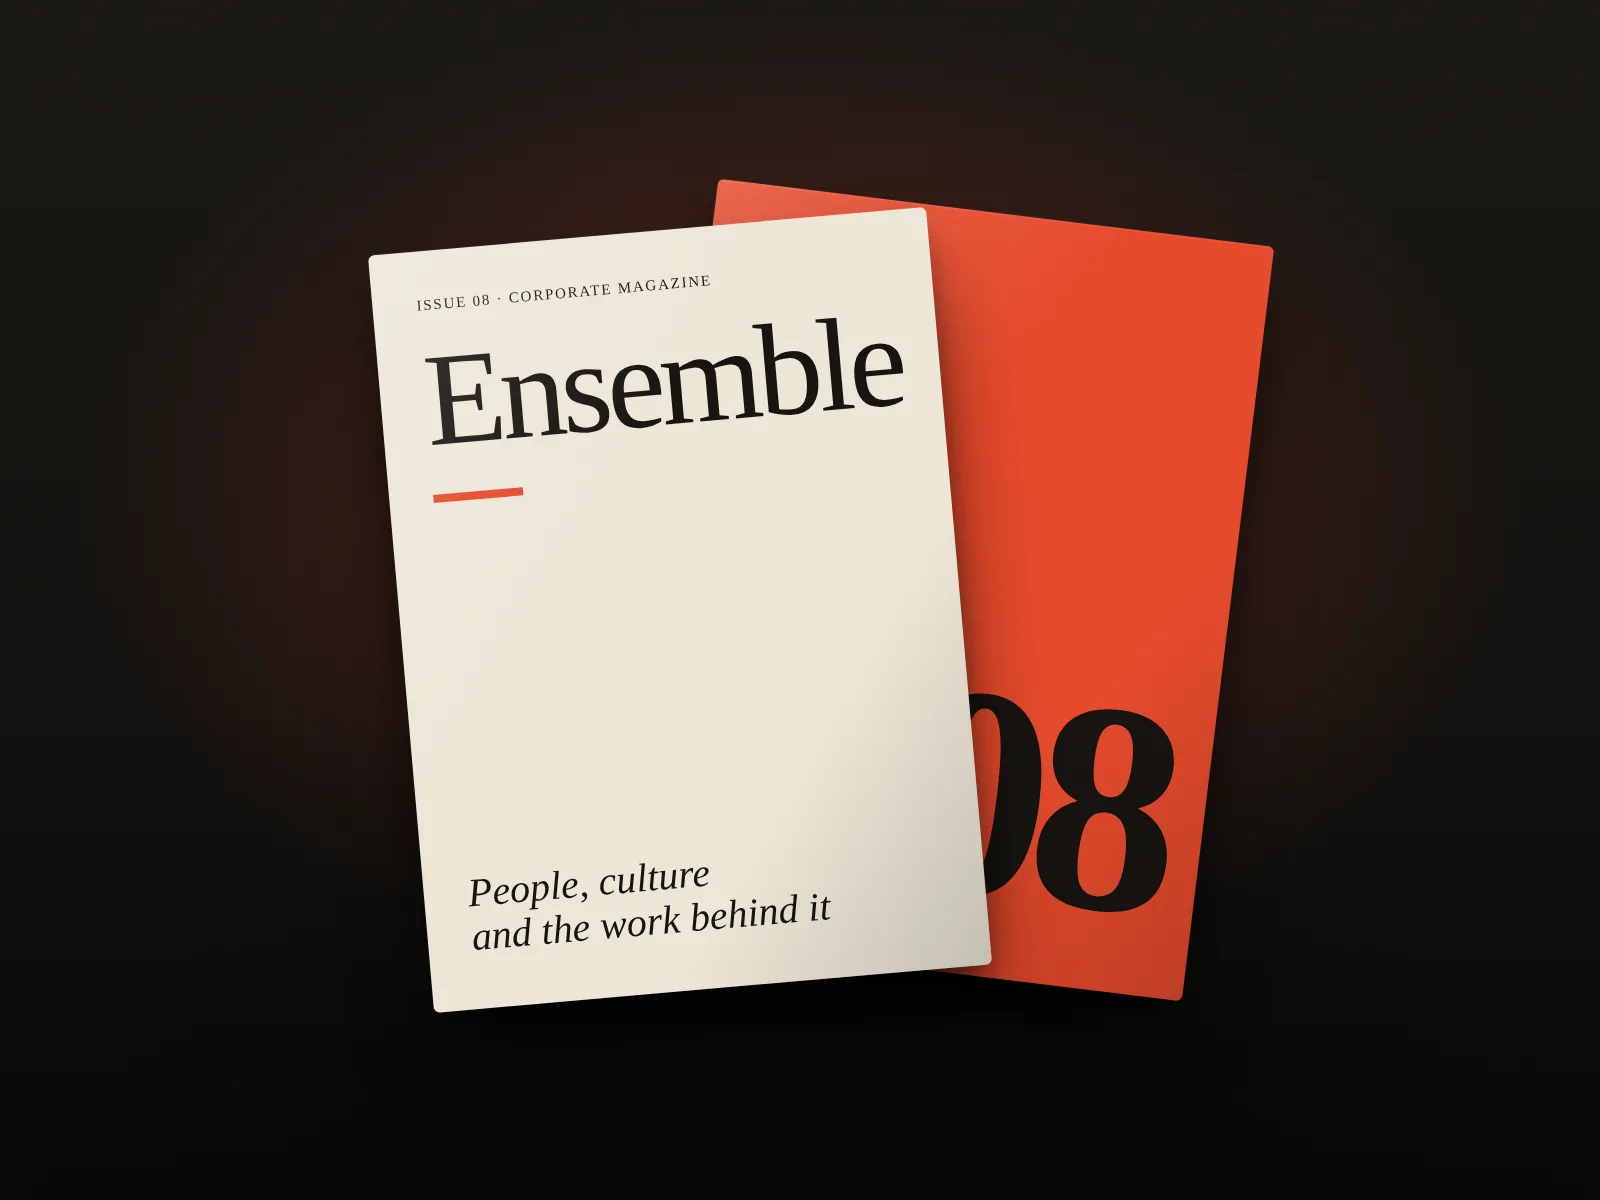
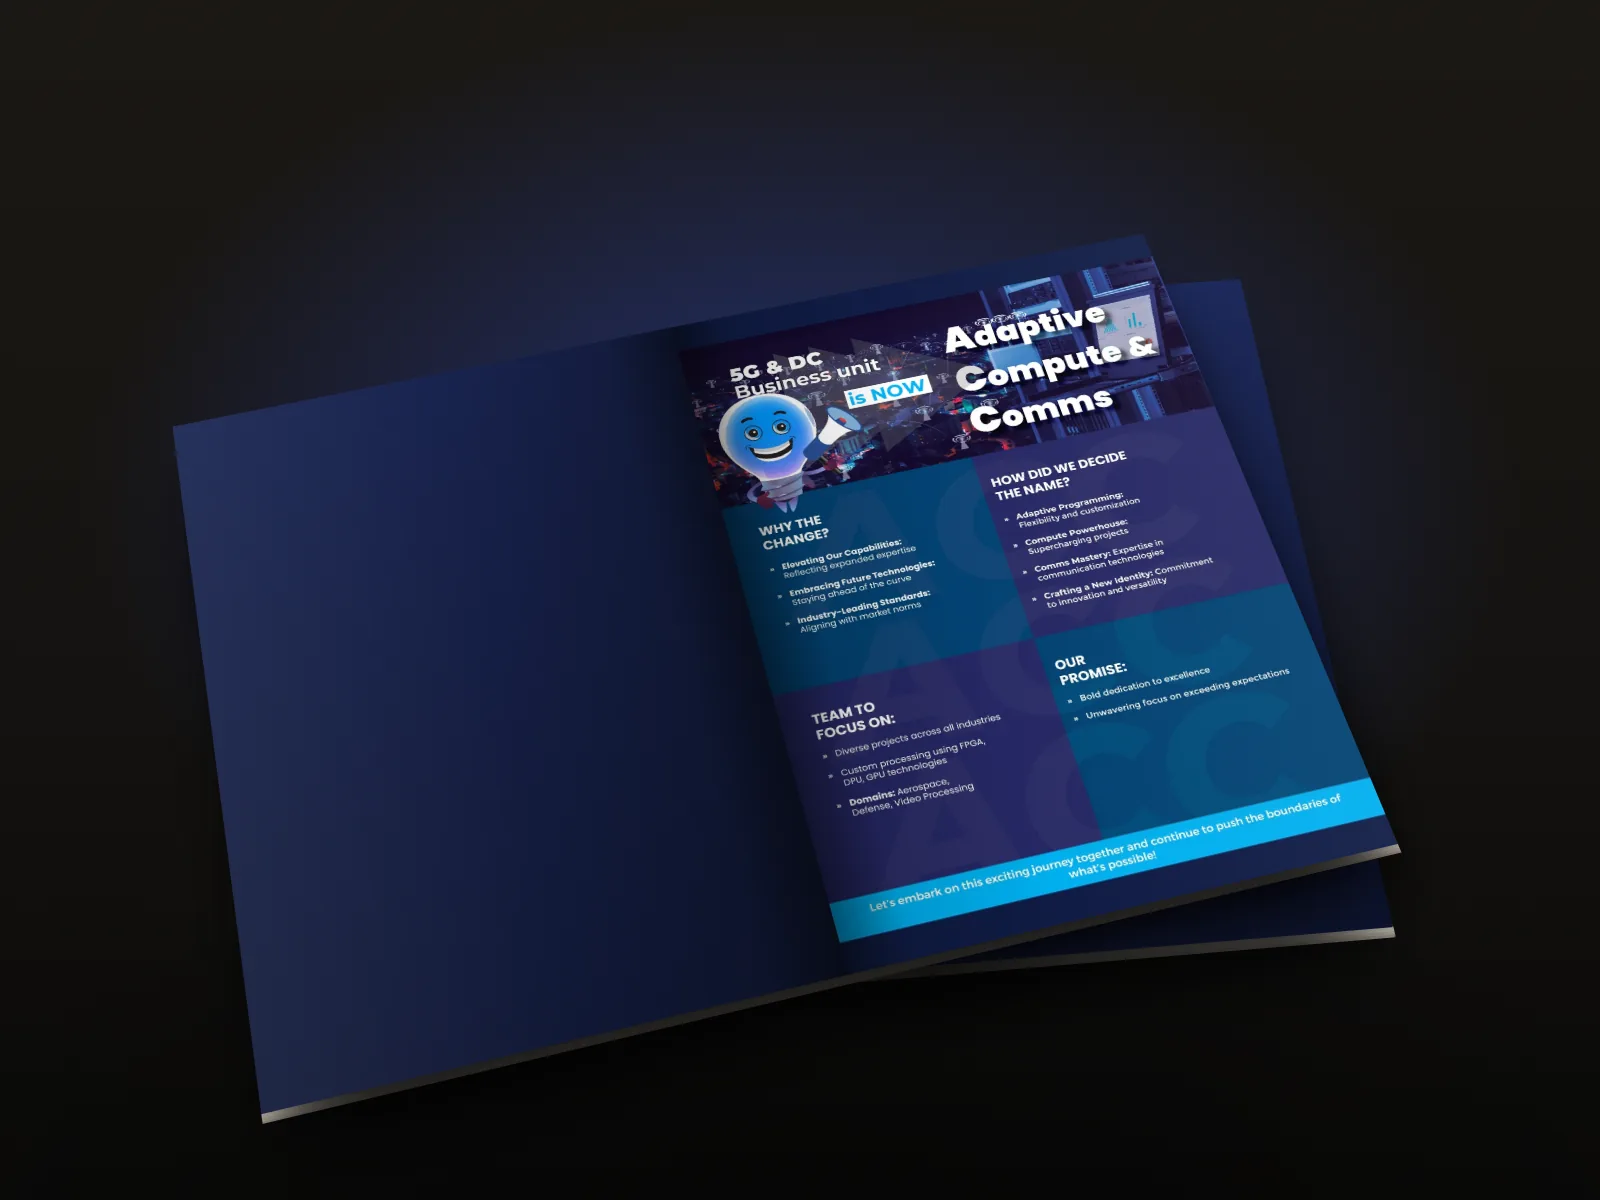
Split Drive projects into their own case studies, add book and brochure mockups
- 8 new projects: Hannover Messe signage, corporate brochure, 5G Lab Kit,
  Low Power Radio Unit, Wi-Fi 7 datasheet, engineering services,
  festive and culture posts, standees
- Gallery pages rendered locally from the source PDFs (no Drive wait)
- Open-magazine mockup for Ensemble, spread and two-pager mockups for brochures
- Featured strip: six picks with a large magazine hero card
- Product brochures renamed to Product Flyers & Sell Sheets; pitch deck
  slides now served locally

Claude-Session: https://claude.ai/code/session_014aAmsUZAXLCP4DRo1Xt3up

diff --git a/js/data.js b/js/data.js
@@ -265,25 +265,23 @@ window.PROJECTS = [
       'Managed press-ready files and colour across vendors in different countries.'
     ],
     outcome: 'Every new show became a configuration rather than a redesign, keeping the brand consistent across 100+ exhibitions.',
-    pdf: '1Z5aSkvRMjSGA0jIeFHua726WbyR0oH8e',
-    pdfLabel: 'Hannover Messe product signage',
     images: ['1IIj9wvWmJliE1QHh5fDCYw833K8XS2MK', '1HDHVDjGsJWhoZt_VHHssbomklXn1cp7s', '1HFIb04e02njFJjXGaN74U3694fSrhIEO', '1HXGqKa9lszg-lv9snxRE9bt03oRi4fHw',
       '1TaphvB0kALbIiTU0_FZhw8UPkN0tUJkH', '185UCdiq264fO6hqPjwQOdQqwl5O-SDlj', '1C305TmPrZMAAAK7m7a-MKKRqJ4Yp7YgV', '1YGL8D2jGySRFbb83AJ02GbVpnn84m_9E',
       '1DyctFCqkiEx4BHuJOziJxyeLByNRuJdD', '1aq2oxGtCBNQjIm36HN_aLstq5xYVYbHz', '18DpgtKuL73PQpwbRh20G9n6KYWtCgGfr', '13fHQ3Rzybj3XnZVPk7g-QY-23Mn0U2XL',
-      '1U4eJvnnVfnWRVsPT93LxnVMJE0cV8kqM', '16OkYHOJQuDajMj_4_kpkTwmfOEniEaM3', '1R8ZdMVpZaeKEG0JukV80z8mmxtEcXEwZ', '1pzDxsQWRAFDnyYsYHeRZkDkDygZN7bVd']
+      '1U4eJvnnVfnWRVsPT93LxnVMJE0cV8kqM', '16OkYHOJQuDajMj_4_kpkTwmfOEniEaM3']
   },
   {
     slug: 'product-brochures',
     thumb: 'assets/work/thumbs/product-brochures.webp',
-    title: 'Product Brochures',
-    kicker: 'Making 5G, Wi-Fi 7 and FPGA readable for buyers',
+    title: 'Product Flyers & Sell Sheets',
+    kicker: 'One-page sell sheets for cloud, power and automotive',
     category: 'editorial',
     size: 'lg',
     year: '2023 – 2024',
     client: 'VVDN Technologies',
     role: 'Graphic Designer',
     tools: 'InDesign, Illustrator, Photoshop',
-    stat: { value: '7+', label: 'product & service brochures' },
+    stat: { value: '7+', label: 'flyers and sell sheets' },
     cover: { bg: '#E9E3D6', ink: '#141210', accent: '#2B4BD8', motif: 'grid' },
     brief: 'Deeply technical products (5G radio units, lab kits, Wi-Fi 7, FPGA, cloud platforms) needed sales collateral that a buyer at a trade show could understand in seconds.',
     approach: [
@@ -292,17 +290,10 @@ window.PROJECTS = [
       'Designed print-ready four-pagers and web versions with QR links back to product pages.'
     ],
     outcome: 'A family of brochures used across sales and 100+ exhibitions, recognisably one brand across every product line.',
-    pdf: '1vGku3dgiUB81HdYh6fVMrkwVp02vPTTD',
-    pdfLabel: 'Corporate brochure',
-    docs: [
-      { label: '5G Lab Kit', id: '1DUOtMYgWx83aEBy7ieX_0EDBdMDzjYuA' },
-      { label: '5G Low Power Radio Unit', id: '1ryYAUBTUfu8MPWXAVtzNOXe68Du-2i6S' },
-      { label: 'Wi-Fi 7', id: '17MMEBp7p2dwofTYo3XQELAT6WyvWOrLG' },
-      { label: 'SoC / FPGA / ASIC', id: '1-PVGJaYNk88FhP4Pr0cUiMwDSSbQJ-7K' },
-      { label: 'Engineering services', id: '1PJG9ZNo0mSzrW9ZbXZZM9-ZDwLq5uNVH' },
-      { label: 'Ambarella platforms', id: '1cSQV844QiC6883kChcjg_4flqknECuK4' }
-    ],
-    images: ['1FZqmjWL5uQWqwueJyOXilMGjlruzx4ng', '1tKFL7MQ44PaGzgdkjZTQIp-hDKrqWTwN', '1QxX6bzA5svDrQZcTrx8Z_7aWgvG8EwWz', '1tW3kJrM3FTSsRv8h11oKn00Wbeosh_Mc', '1M4t_LXTHMBZMrC2rkRLl9MAeiIrBVpY5', '1135WzylIpFkv3RRK0sDSZP8B2TkhvF4_', '1e_LJlFoR9Uc29DM27QbtEoeFvGF_bniq']
+    pdf: '1-PVGJaYNk88FhP4Pr0cUiMwDSSbQJ-7K',
+    pdfLabel: 'SoC / FPGA / ASIC brochure',
+    docs: [{ label: 'Ambarella platforms brochure', id: '1cSQV844QiC6883kChcjg_4flqknECuK4' }],
+    images: ['1FZqmjWL5uQWqwueJyOXilMGjlruzx4ng', '1tKFL7MQ44PaGzgdkjZTQIp-hDKrqWTwN', '1QxX6bzA5svDrQZcTrx8Z_7aWgvG8EwWz', '1tW3kJrM3FTSsRv8h11oKn00Wbeosh_Mc', '1135WzylIpFkv3RRK0sDSZP8B2TkhvF4_', '1e_LJlFoR9Uc29DM27QbtEoeFvGF_bniq']
   },
   {
     slug: 'corporate-magazine',
@@ -327,7 +318,7 @@ window.PROJECTS = [
     pdf: '1jLfSpgh4IetZi35g1-GWZKgghlRFS_30',
     pdfLabel: 'Ensemble 2024',
     docs: [{ label: 'Ensemble 2023', id: '1L7EYYJpi5nPelLRSSo4-EzgSIXCHMHR4' }, { label: 'Ensemble 2022', id: '1fKnxhKQ6IK1YTiVxoVm0543KHoRHpffT' }],
-    images: ['1EOpVJNgfmJa9e-fFML42YI_naqmXR45n']
+    images: ['assets/work/ensemble/01.webp']
   },
   {
     slug: 'sunkonnect',
@@ -361,7 +352,7 @@ window.PROJECTS = [
     client: 'VVDN Technologies · Freelance',
     role: 'Graphic Designer',
     tools: 'Illustrator, Photoshop',
-    stat: { value: '8', label: 'event creatives' },
+    stat: { value: '5', label: 'event creatives' },
     cover: { bg: '#2A2420', ink: '#F2E9DC', accent: '#C9A15A', motif: 'frame' },
     brief: 'Annual parties, festive celebrations and HR wellness drives each needed an invite or campaign that felt special, not templated.',
     approach: [
@@ -369,7 +360,191 @@ window.PROJECTS = [
       'Created festive greetings and backdrops in a consistent brand voice.'
     ],
     outcome: 'Used across email, print and social for each event.',
-    images: ['1HHzQ7KI7X7RkdUaNVEK78ygkr8B0cJOj', '1zoon9k5pg9VCznVdB9SfUGajOCbCXhPj', '1tJsB1ICWKCxCm_CX48SaB1zCpgBSKawM', '1HZlAYnrwixSNwZS428naKNm6nwVw2Cvh', '1HY9muyNHqTiSuYV9A1wwH0U4_mAhTYda', '1VnrV3nL3MjgwjlRF-xtCZhz9wjLEH0SI', '1xPVxfxptoL_PsjboSxsm7Yw_FShTK1Jl', '1yliEuOLemzs3GspMC2JcyBfGVMhJ0P8b']
+    images: ['1HHzQ7KI7X7RkdUaNVEK78ygkr8B0cJOj', '1zoon9k5pg9VCznVdB9SfUGajOCbCXhPj', '1tJsB1ICWKCxCm_CX48SaB1zCpgBSKawM', '1HZlAYnrwixSNwZS428naKNm6nwVw2Cvh', '1HY9muyNHqTiSuYV9A1wwH0U4_mAhTYda']
+  },
+  {
+    slug: 'hannover-signage',
+    thumb: 'assets/work/thumbs/hannover-signage.webp',
+    title: 'Hannover Messe Product Signage',
+    kicker: '19 product cards for one booth',
+    category: 'spatial',
+    size: 'lg',
+    year: '2024',
+    client: 'VVDN Technologies',
+    role: 'Graphic Designer',
+    tools: 'Illustrator, InDesign',
+    stat: { value: '19', label: 'product signage cards' },
+    cover: { bg: '#EEF3FA', ink: '#0E2A5C', accent: '#1F6FE5', motif: 'grid' },
+    brief: 'VVDN brought a wide product line to Hannover Messe, from thermal imaging cores and EV chargers to HPC servers and 5G radio units. Every product on the booth needed its own sign that a visitor could read from a step away.',
+    approach: [
+      'Built one card template: product name, partner logo, platform, highlights and use cases.',
+      'Kept the same reading order on every card so visitors could compare products quickly.',
+      'Added a QR code to each card that links to the product page.'
+    ],
+    outcome: 'Nineteen consistent cards for the booth, covering platforms from NVIDIA, Qualcomm, Intel, NXP, Ambarella and more.',
+    pdf: '1Z5aSkvRMjSGA0jIeFHua726WbyR0oH8e',
+    pdfLabel: 'All 19 signage cards',
+    images: ['assets/work/hannover/01.webp', 'assets/work/hannover/02.webp', 'assets/work/hannover/03.webp', 'assets/work/hannover/04.webp', 'assets/work/hannover/05.webp', 'assets/work/hannover/06.webp', 'assets/work/hannover/07.webp', 'assets/work/hannover/08.webp', 'assets/work/hannover/09.webp', 'assets/work/hannover/10.webp', 'assets/work/hannover/11.webp', 'assets/work/hannover/12.webp', 'assets/work/hannover/13.webp', 'assets/work/hannover/14.webp', 'assets/work/hannover/15.webp', 'assets/work/hannover/16.webp', 'assets/work/hannover/17.webp', 'assets/work/hannover/18.webp', 'assets/work/hannover/19.webp']
+  },
+  {
+    slug: 'corporate-brochure',
+    thumb: 'assets/work/thumbs/corporate-brochure.webp',
+    title: 'VVDN Corporate Brochure',
+    kicker: 'The company story in four pages',
+    category: 'editorial',
+    size: 'md',
+    year: '2023',
+    client: 'VVDN Technologies',
+    role: 'Graphic Designer',
+    tools: 'InDesign, Illustrator, Photoshop',
+    stat: { value: '4', label: 'pages · print and web' },
+    cover: { bg: '#0E2A5C', ink: '#EEF3FA', accent: '#2FA8E0', motif: 'masthead' },
+    brief: 'Prospects meeting VVDN for the first time needed one printed piece that explained the whole company, from concept-to-commission engineering to manufacturing.',
+    approach: [
+      'Opened with a full-bleed campus photo to establish scale.',
+      'Organised capabilities by business line: 5G, data centre, networking, IoT, vision, automotive and cloud.',
+      'Closed with manufacturing facilities and a world map of the global footprint.'
+    ],
+    outcome: 'A four-page introduction used in sales meetings and at trade shows.',
+    pdf: '1vGku3dgiUB81HdYh6fVMrkwVp02vPTTD',
+    pdfLabel: 'Corporate brochure',
+    images: ['assets/work/corporate-brochure/01.webp', 'assets/work/corporate-brochure/02.webp', 'assets/work/corporate-brochure/03.webp', 'assets/work/corporate-brochure/04.webp']
+  },
+  {
+    slug: 'lab-kit-brochure',
+    thumb: 'assets/work/thumbs/lab-kit-brochure.webp',
+    title: '5G Lab Kit Brochure',
+    kicker: 'Selling a 5G lab to universities',
+    category: 'editorial',
+    size: 'sm',
+    year: '2023',
+    client: 'VVDN Technologies',
+    role: 'Graphic Designer',
+    tools: 'InDesign, Photoshop, Illustrator',
+    stat: { value: '4', label: 'pages' },
+    cover: { bg: '#0B1E4A', ink: '#EEF3FA', accent: '#2FA8E0', motif: 'grid' },
+    brief: 'A 5G lab kit for universities and research institutes, sold in two variants. The brochure had to work for an academic buyer and a technical evaluator at once.',
+    approach: [
+      'Cover built around the kit inside a glowing 5G scene.',
+      'A labelled "what\'s inside the box" spread showing every component.',
+      'A side-by-side feature table comparing the two variants, plus a page on who the kit is for.'
+    ],
+    outcome: 'Four pages that take a buyer from "what is it" to "which version do I need".',
+    pdf: '1DUOtMYgWx83aEBy7ieX_0EDBdMDzjYuA',
+    pdfLabel: '5G Lab Kit brochure',
+    images: ['assets/work/lab-kit/01.webp', 'assets/work/lab-kit/02.webp', 'assets/work/lab-kit/03.webp', 'assets/work/lab-kit/04.webp']
+  },
+  {
+    slug: 'radio-unit-brochure',
+    thumb: 'assets/work/thumbs/radio-unit-brochure.webp',
+    title: '5G Low Power Radio Unit',
+    kicker: 'An ORAN radio unit, explained in four pages',
+    category: 'editorial',
+    size: 'sm',
+    year: '2023',
+    client: 'VVDN Technologies',
+    role: 'Graphic Designer',
+    tools: 'InDesign, Illustrator',
+    stat: { value: '4', label: 'pages' },
+    cover: { bg: '#0B1E4A', ink: '#EEF3FA', accent: '#2FA8E0', motif: 'frame' },
+    brief: 'An indoor ORAN 7.2a radio unit for enterprise and private 5G. Dense spec content that buyers still had to grasp quickly.',
+    approach: [
+      'Product-led cover with the unit on a dark gradient.',
+      'Overview and highlights page with icon-led feature callouts.',
+      'Architecture diagram and a clean spec table for evaluators.'
+    ],
+    outcome: 'A four-pager that moves from the pitch to the specs without losing either reader.',
+    pdf: '1ryYAUBTUfu8MPWXAVtzNOXe68Du-2i6S',
+    pdfLabel: 'Low Power Radio Unit brochure',
+    images: ['assets/work/lpru/01.webp', 'assets/work/lpru/02.webp', 'assets/work/lpru/03.webp', 'assets/work/lpru/04.webp']
+  },
+  {
+    slug: 'wifi7-datasheet',
+    thumb: 'assets/work/thumbs/wifi7-datasheet.webp',
+    title: 'Wi-Fi 7 Access Point',
+    kicker: 'A two-page product datasheet',
+    category: 'editorial',
+    size: 'sm',
+    year: '2023',
+    client: 'VVDN Technologies',
+    role: 'Graphic Designer',
+    tools: 'InDesign, Photoshop',
+    stat: { value: '2', label: 'pages' },
+    cover: { bg: '#0B1E4A', ink: '#EEF3FA', accent: '#2FA8E0', motif: 'frame' },
+    brief: 'Launch collateral for a Wi-Fi 7 access point, used at shows and sent to prospects.',
+    approach: [
+      'Hero cover with the product render and a strong launch headline.',
+      'Spec table and three offerings (licensing, customisation, manufacturing) on the back.'
+    ],
+    outcome: 'A two-sided sheet that sells the product and answers the first technical questions.',
+    pdf: '17MMEBp7p2dwofTYo3XQELAT6WyvWOrLG',
+    pdfLabel: 'Wi-Fi 7 datasheet',
+    images: ['assets/work/wifi7/01.webp', 'assets/work/wifi7/02.webp']
+  },
+  {
+    slug: 'engineering-services',
+    thumb: 'assets/work/thumbs/engineering-services.webp',
+    title: 'Engineering Services Two-Pager',
+    kicker: 'Every service line on two pages',
+    category: 'editorial',
+    size: 'sm',
+    year: '2023',
+    client: 'VVDN Technologies',
+    role: 'Graphic Designer',
+    tools: 'InDesign, Illustrator',
+    stat: { value: '2', label: 'pages' },
+    cover: { bg: '#0B1E4A', ink: '#EEF3FA', accent: '#2FA8E0', motif: 'grid' },
+    brief: 'Product engineering, software, cloud and manufacturing services needed one overview that a sales team could hand out anywhere.',
+    approach: [
+      'Grouped services into clear blocks: 5G, semiconductor, networking, IoT, vision and data centre.',
+      'Back page covers manufacturing services with facility numbers and industry icons.'
+    ],
+    outcome: 'A compact overview of the full service catalogue.',
+    pdf: '1PJG9ZNo0mSzrW9ZbXZZM9-ZDwLq5uNVH',
+    pdfLabel: 'Engineering services',
+    images: ['assets/work/eng-services/01.webp', 'assets/work/eng-services/02.webp']
+  },
+  {
+    slug: 'office-culture',
+    thumb: 'assets/work/thumbs/office-culture.webp',
+    title: 'Festive & Culture Posts',
+    kicker: 'Diwali greetings and team meetups',
+    category: 'campaign',
+    size: 'sm',
+    year: '2025',
+    client: 'Publicis Re:Sources',
+    role: 'Graphic Designer',
+    tools: 'Illustrator, Photoshop',
+    stat: { value: '3', label: 'internal creatives' },
+    cover: { bg: '#1A1208', ink: '#F2E9DC', accent: '#E0A43A', motif: 'frame' },
+    brief: 'Internal posts for festivals and informal team meetups across the office.',
+    approach: [
+      'Two Diwali greetings, one warm and traditional, one dark and modern.',
+      'A neon-style "Coffee, Chats and No Work Talk" invite for a team meetup.'
+    ],
+    outcome: 'Shared on internal channels and screens around the office.',
+    images: ['assets/work/office-culture/01.webp', 'assets/work/office-culture/02.webp', 'assets/work/office-culture/03.webp']
+  },
+  {
+    slug: 'standees',
+    thumb: 'assets/work/thumbs/standees.webp',
+    title: 'Standees & Table Displays',
+    kicker: 'Print that lives in the office',
+    category: 'spatial',
+    size: 'sm',
+    year: '2023',
+    client: 'VVDN Technologies',
+    role: 'Graphic Designer',
+    tools: 'Illustrator, Photoshop',
+    stat: { value: '4', label: 'printed pieces' },
+    cover: { bg: '#141210', ink: '#EDE6D6', accent: '#2FA8E0', motif: 'frame' },
+    brief: 'Roll-up standees and acrylic table displays for the office, reception and product demos.',
+    approach: [
+      'Bold brand-led roll-ups readable from across a room.',
+      'Product table tents that sit next to demo units.'
+    ],
+    outcome: 'Printed and installed across the office and demo areas.',
+    images: ['assets/work/standees/01.webp', 'assets/work/standees/02.webp']
   },
   {
     slug: 'luxora',
@@ -548,7 +723,7 @@ window.PROJECTS = [
     pdf: '1c_tu98HbvXSbYMJH0gg9NKD67WFopARx',
     pdfLabel: 'Sports management deck',
     docs: [{ label: 'Software company deck', id: '1OoOSke51CJVPSbp7n-cxRIyQSDCcA9pu' }],
-    images: ['1c_tu98HbvXSbYMJH0gg9NKD67WFopARx', '1OoOSke51CJVPSbp7n-cxRIyQSDCcA9pu']
+    images: ['assets/work/pitch-decks/01.webp', 'assets/work/pitch-decks/02.webp', 'assets/work/pitch-decks/03.webp', 'assets/work/pitch-decks/04.webp']
   },
   {
     slug: 'magazine-ads',

diff --git a/css/style.css b/css/style.css
@@ -659,7 +659,10 @@ a.lab-row:hover { transform: perspective(1000px) translateZ(18px); }
 .featured { padding: clamp(56px, 8vw, 110px) 0 clamp(40px, 6vw, 80px); position: relative; z-index: 2; background: var(--ink); }
 .feat-head { display: grid; grid-template-columns: auto 1fr auto; align-items: baseline; gap: 24px; padding-bottom: 22px; border-bottom: 1px solid var(--rule-strong); margin-bottom: 28px; }
 .feat-title { font-weight: 800; font-variation-settings: 'wdth' 72; text-transform: uppercase; font-size: clamp(28px, 3.4vw, 52px); line-height: .9; letter-spacing: -.01em; }
-.feat-row { display: grid; grid-template-columns: repeat(4, 1fr); gap: 18px; }
+.feat-row { display: grid; grid-template-columns: repeat(3, 1fr); gap: 28px 22px; }
+.feat:first-child { grid-column: span 2; grid-row: span 2; }
+.feat:first-child .feat-media { aspect-ratio: auto; flex: 1; min-height: 0; }
+.feat:first-child h3 { font-size: clamp(26px, 2.6vw, 42px); }
 .feat { display: flex; flex-direction: column; gap: 14px; transition: opacity .9s var(--ease) var(--d, 0s), transform .9s var(--ease) var(--d, 0s); }
 .feat.reveal { opacity: 0; transform: translateY(30px); }
 .feat.reveal.in { opacity: 1; transform: none; }
@@ -678,4 +681,6 @@ a.lab-row:hover { transform: perspective(1000px) translateZ(18px); }
   .feat-row { display: flex; overflow-x: auto; scroll-snap-type: x mandatory; scroll-padding-left: var(--gutter); gap: 14px; margin: 0 calc(-1 * var(--gutter)); padding: 0 var(--gutter) 6px; scrollbar-width: none; }
   .feat-row::-webkit-scrollbar { display: none; }
   .feat { flex: 0 0 78vw; scroll-snap-align: start; }
+  .feat:first-child .feat-media { aspect-ratio: 4 / 3; flex: none; }
+  .feat:first-child h3 { font-size: 22px; }
 }

diff --git a/js/home.js b/js/home.js
@@ -23,7 +23,7 @@ document.addEventListener('DOMContentLoaded', () => {
   /* ---------- Featured strip ---------- */
   const featRow = document.getElementById('featRow');
   if (featRow && window.PROJECTS) {
-    const picks = ['it-newsletter', 'it-support-kit', 'intranet-articles', 'exhibition-graphics']
+    const picks = ['corporate-magazine', 'corporate-booth', 'it-newsletter', 'hannover-signage', 'corporate-brochure', 'ai-spec-campaign']
       .map(s => PROJECTS.findIndex(p => p.slug === s)).filter(i => i > -1);
     featRow.innerHTML = picks.map((i, n) => { const p = PROJECTS[i]; return `
       <a class="feat reveal" href="pages/project.html?p=${p.slug}" data-cursor="view" style="--d:${n * .08}s">
@@ -37,6 +37,8 @@ document.addEventListener('DOMContentLoaded', () => {
       </a>`; }).join('');
     wireImageFallbacks(featRow);
     observeReveals(featRow);
+    const fa = document.getElementById('featAll');
+    if (fa) fa.textContent = `All ${PROJECTS.length} projects`;
   }
 
   /* ---------- Work grid ---------- */

diff --git a/index.html b/index.html
@@ -103,8 +103,8 @@
     <div class="wrap">
       <div class="feat-head">
         <span class="mono red">(00) Featured</span>
-        <h2 class="feat-title" id="featTitle">Four to start with</h2>
-        <a href="#work" class="arrow-link">All 27 projects</a>
+        <h2 class="feat-title" id="featTitle">Start with these</h2>
+        <a href="#work" class="arrow-link" id="featAll">All projects</a>
       </div>
       <div class="feat-row" id="featRow"></div>
     </div>
